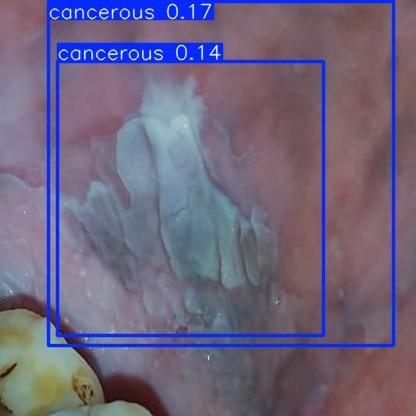
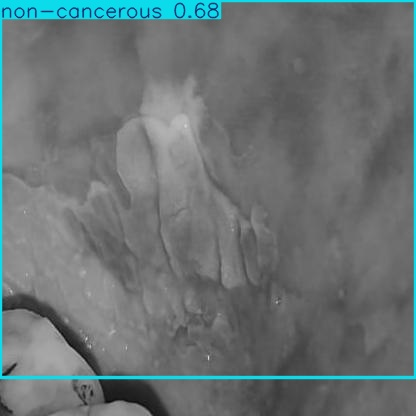
yolo bbox

diff --git a/yolo_project/templates/index.html b/yolo_project/templates/index.html
@@ -10,28 +10,20 @@
 
   <header class="bg-white shadow p-6 sticky top-0 z-50">
     <div class="flex justify-between items-center">
-      <!-- Left Section -->
       <div>
         <h1 class="text-2xl font-semibold">🩺 Oral Cancer Detection</h1>
         <p class="text-sm text-gray-500">Upload patient’s inner mouth image for AI-based prediction.</p>
       </div>
-  
-      <!-- Right Section: Logout -->
       <a href="{{ url_for('logout') }}"
          class="bg-red-500 text-white px-4 py-2 rounded hover:bg-red-600 transition text-sm font-medium shadow">
         Logout
       </a>
     </div>
   </header>
-  
-  
-  </header>
-
-
 
   <!-- Main Content -->
   <main class="p-6 grid grid-cols-1 md:grid-cols-2 gap-8 max-w-6xl mx-auto">
-
+    
     <!-- Upload Section -->
     <section class="bg-white border border-gray-200 p-6 rounded-xl shadow-sm">
       <h2 class="text-lg font-medium mb-4">Upload Image</h2>
@@ -44,18 +36,11 @@
     <section class="bg-white border border-gray-200 p-6 rounded-xl shadow-sm text-center">
       <h2 class="text-lg font-medium mb-4">Result</h2>
 
-      <div id="previewContainer" class="relative w-full max-w-md aspect-video mx-auto rounded border hidden">
-        <img id="previewImage" src="" alt="Preview" class="w-full h-full object-cover" />
-        <div id="overlay" class="absolute top-0 left-0 w-full h-full pointer-events-none bg-red-500 bg-opacity-20"></div>
+      <div id="previewContainer" class="w-full flex justify-center items-center border rounded hidden overflow-auto max-h-[600px] bg-white">
+        <img id="previewImage" src="" alt="Preview" class="max-w-full h-auto rounded" />
       </div>
 
-      <div id="confidenceSection" class="mt-6 hidden">
-        <p class="text-sm text-gray-600 mb-1">AI Confidence Score:</p>
-        <div class="w-full bg-gray-200 rounded-full h-4 overflow-hidden">
-          <div id="confidenceBar" class="h-4 rounded-full transition-all duration-500 ease-in-out" style="width: 0%"></div>
-        </div>
-        <p id="confidenceText" class="text-sm mt-2 text-gray-600 font-medium"></p>
-      </div>
+      <p id="predictionText" class="mt-4 text-sm font-semibold hidden"></p>
     </section>
 
   </main>
@@ -64,57 +49,50 @@
   <footer class="text-center p-4 text-xs text-gray-400">
     &copy; 2025 Oral Cancer AI Project | Built for medical professionals
   </footer>
+
   <script>
     const imageInput = document.getElementById('imageInput');
     const previewImage = document.getElementById('previewImage');
     const previewContainer = document.getElementById('previewContainer');
-    const confidenceSection = document.getElementById('confidenceSection');
-    const confidenceBar = document.getElementById('confidenceBar');
-    const confidenceText = document.getElementById('confidenceText');
-  
+    const predictionText = document.getElementById('predictionText');
+
     function uploadAndPredict() {
       const file = imageInput.files[0];
       if (!file) {
         alert("Please select an image first!");
         return;
       }
-  
+
       const formData = new FormData();
-      formData.append('file', file);
-  
-      // Show preview immediately while waiting
+      formData.append('image', file);
+
       const reader = new FileReader();
       reader.onload = function (e) {
         previewImage.src = e.target.result;
         previewContainer.classList.remove('hidden');
       };
       reader.readAsDataURL(file);
-  
-      // Call Flask /predict API
+
       fetch('/predict', {
         method: 'POST',
         body: formData,
       })
       .then(response => response.json())
       .then(data => {
-        const { label, confidence, image_url } = data;
-  
+        const { label, image_url } = data;
+
         // Show updated image with bounding boxes
         previewImage.src = image_url;
         previewContainer.classList.remove('hidden');
-  
-        // Show prediction + confidence
-        confidenceBar.style.width = confidence + '%';
-        confidenceText.textContent = `Prediction: ${label} with ${confidence}% confidence`;
-        confidenceSection.classList.remove('hidden');
-  
-        // Set bar color based on confidence range
-        if (confidence < 70) {
-          confidenceBar.style.backgroundColor = '#EF4444'; // Red
-        } else if (confidence >= 70 && confidence <= 80) {
-          confidenceBar.style.backgroundColor = '#F59E0B'; // Yellow
+
+        // Update prediction label text and color
+        predictionText.textContent = `Prediction: ${label}`;
+        predictionText.classList.remove("hidden");
+
+        if (label.toLowerCase().includes("cancerous")) {
+          predictionText.className = "mt-4 text-sm font-semibold text-red-600";
         } else {
-          confidenceBar.style.backgroundColor = '#10B981'; // Green
+          predictionText.className = "mt-4 text-sm font-semibold text-green-600";
         }
       })
       .catch(error => {
@@ -123,6 +101,5 @@
       });
     }
   </script>
-
 </body>
 </html>

diff --git a/yolo_project/app.py b/yolo_project/app.py
@@ -1,4 +1,4 @@
-from flask import Flask, render_template, request, redirect, url_for, session, jsonify, flash
+from flask import Flask, render_template, request, redirect, url_for, session, jsonify, flash, send_from_directory
 import os
 import sqlite3
 import secrets
@@ -135,7 +135,6 @@ def logout():
 
 model = YOLO("/Users/hardikm-visiobyte/Desktop/Oral_Cancer_Ampire/yolo_project/static/model_file/best.pt")  # replace with your actual model path
 # model.names = {0: 'not cancer', 1: 'cancer'}  # explicitly set class names
-
 @app.route('/predict', methods=['POST'])
 def predict():
     if 'image' not in request.files:
@@ -145,53 +144,66 @@ def predict():
 
     file = request.files['image']
     img_bytes = file.read()
+    
     nparr = np.frombuffer(img_bytes, np.uint8)
     img = cv2.imdecode(nparr, cv2.IMREAD_COLOR)
+    print("Image received and decoded")
 
     results = model(img)
     detections = results[0].boxes.data.cpu().numpy()
+    print("Raw detections:", detections)
 
+    # Define class names explicitly if needed
+    class_names = {0: 'non-cancerous', 1: 'cancerous'}
+
+    # Filter only cancerous detections
     output = []
     for det in detections:
         x1, y1, x2, y2, conf, cls = det
-        output.append({
-            'class_id': int(cls),
-            'confidence': float(conf),
-            'bbox': [int(x1), int(y1), int(x2), int(y2)],
-            'label': model.names[int(cls)]
-        })
+        if int(cls) == 1:  # Only keep cancerous
+            output.append({
+                'class_id': int(cls),
+                'confidence': float(conf),
+                'bbox': [int(x1), int(y1), int(x2), int(y2)],
+                'label': class_names[int(cls)]
+            })
 
-    # Handle no detections
-    if not output:
-        return jsonify({
-            "label": "No cancer detected",
-            "confidence": 0,
-            "image_url": ""
-        })
-
-    # Get the highest confidence result
-    top = max(output, key=lambda x: x["confidence"])
-
-    # Draw all detections on the image
-    for det in detections:
-        x1, y1, x2, y2, conf, cls = det
-        label = f"{model.names[int(cls)]} {conf:.2f}"
-        cv2.rectangle(img, (int(x1), int(y1)), (int(x2), int(y2)), (0, 0, 255), 2)
-        cv2.putText(img, label, (int(x1), int(y1) - 10),
-                    cv2.FONT_HERSHEY_SIMPLEX, 0.6, (255, 255, 255), 2)
-
-    # Save result image
+    # Prepare output filename
     filename = f"pred_{uuid.uuid4().hex[:8]}.jpg"
     filepath = os.path.join("static", filename)
     os.makedirs("static", exist_ok=True)
+
+    # If no cancerous detections, save original image and return
+    if not output:
+        cv2.imwrite(filepath, img)
+        return jsonify({
+            "label": "No cancer detected",
+            "confidence": 0,
+            "image_url": f"/static/{filename}"
+        })
+
+    # Use the highest confidence cancerous detection
+    top = max(output, key=lambda x: x["confidence"])
+    x1, y1, x2, y2 = top["bbox"]
+    label = f"{top['label']} {top['confidence']:.2f}"
+
+    # Draw just this bounding box
+    cv2.rectangle(img, (x1, y1), (x2, y2), (255, 0, 0), 2)
+    cv2.putText(img, label, (x1, y1 - 10),
+                cv2.FONT_HERSHEY_SIMPLEX, 0.6, (255, 255, 255), 2)
+
+    # Save result image
     cv2.imwrite(filepath, img)
 
     return jsonify({
-        "label": top["label"],  # will be 'cancer' or 'not cancer'
+        "label": top["label"],
         "confidence": int(top["confidence"] * 100),
         "image_url": f"/static/{filename}"
     })
 
+@app.route('/static/<path:filename>')
+def serve_static(filename):
+    return send_from_directory('static', filename)
 
 if __name__ == '__main__':
     app.run(debug=True)
